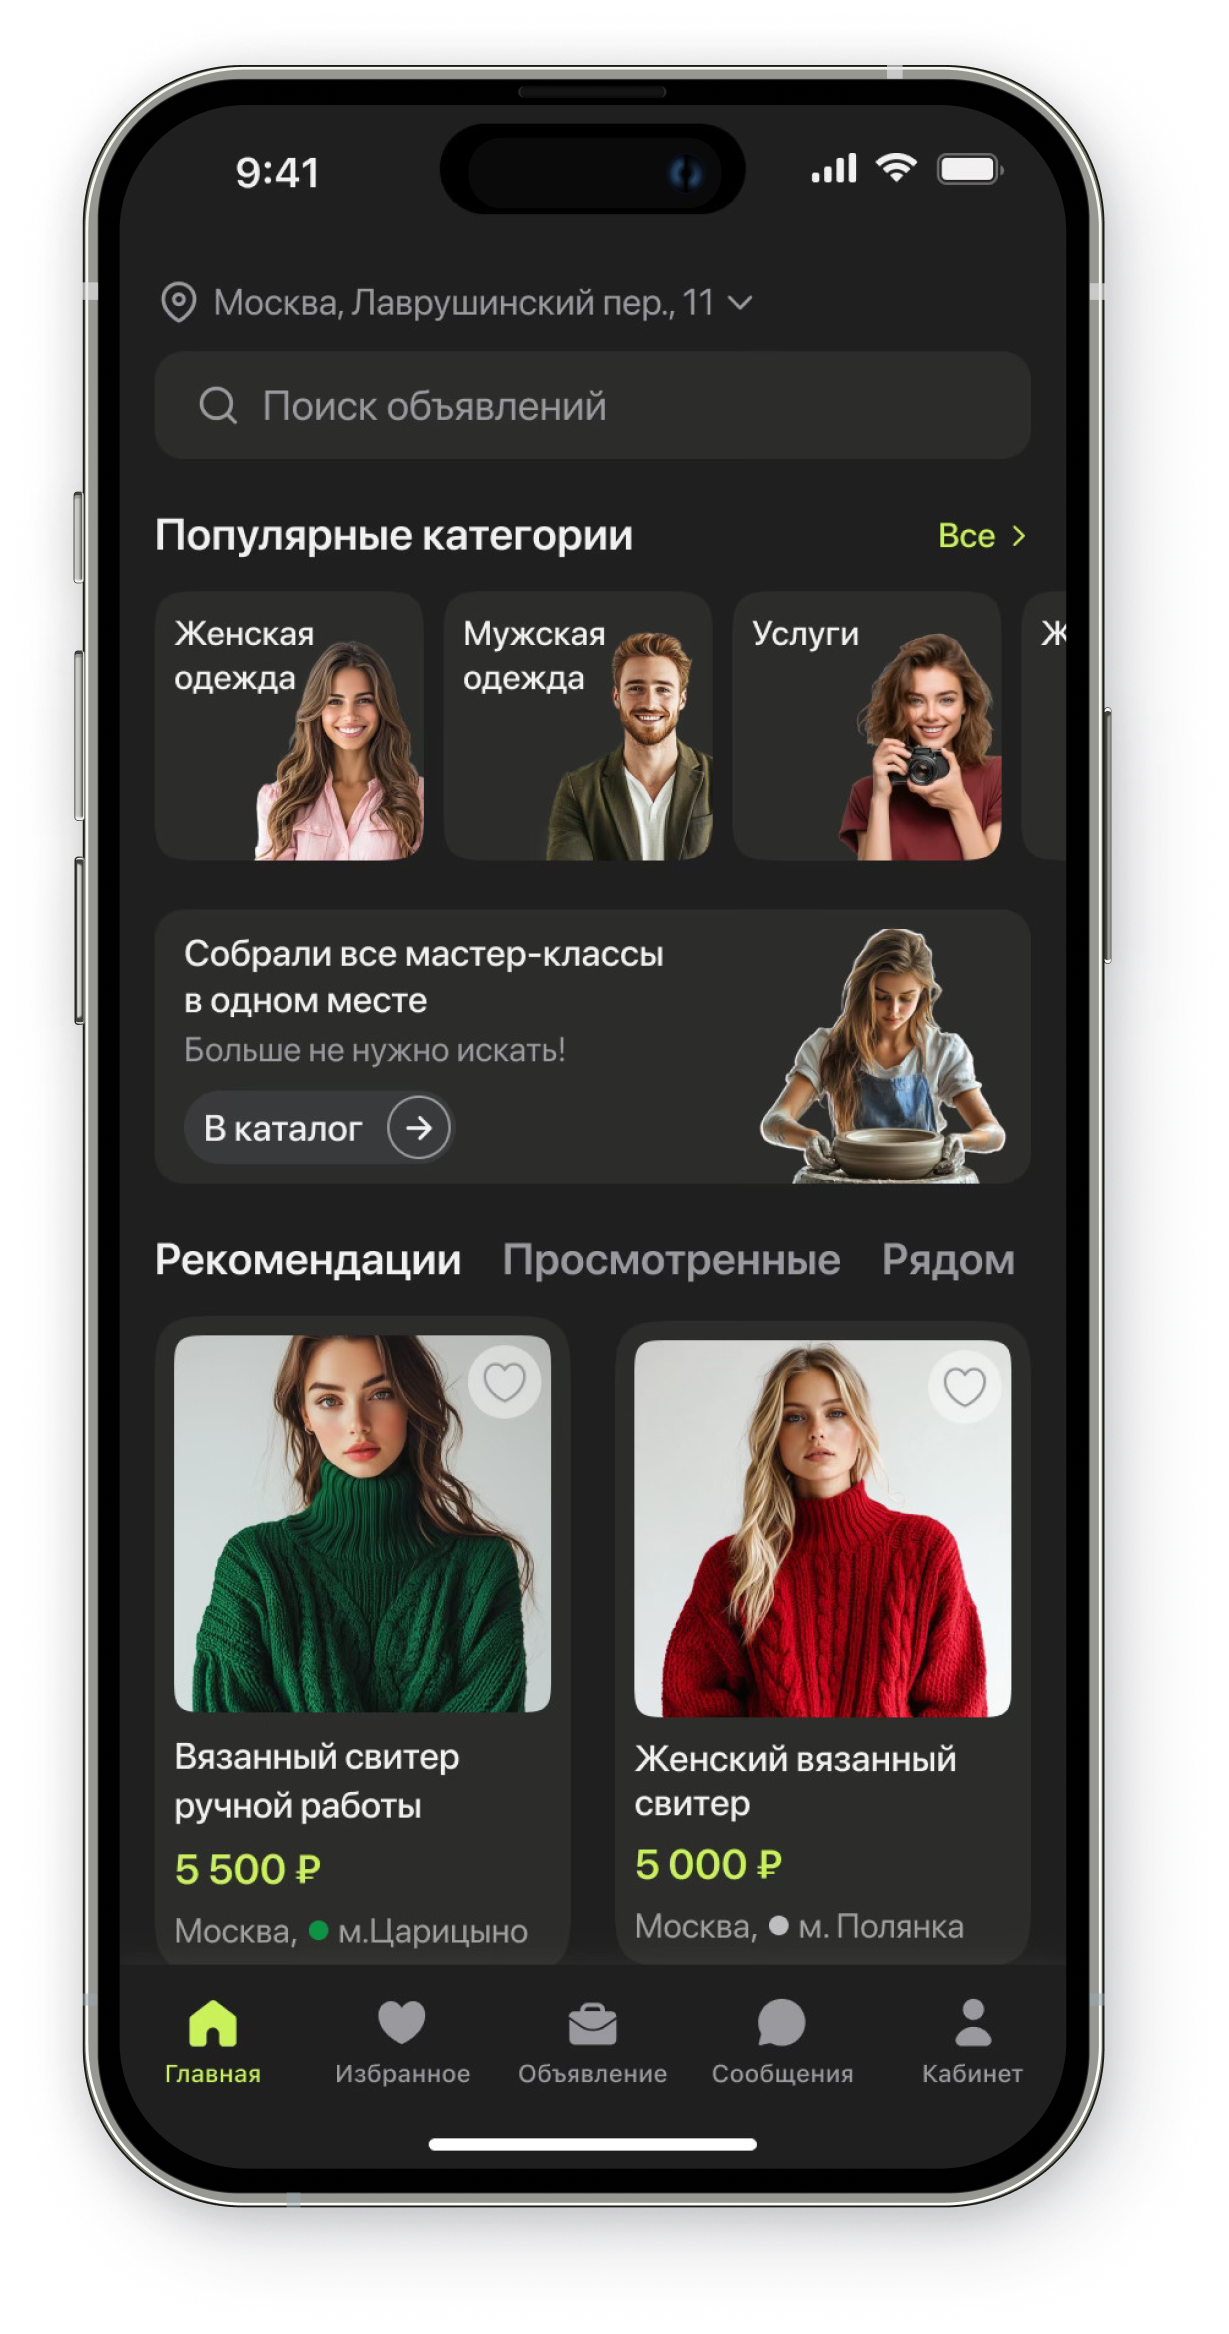
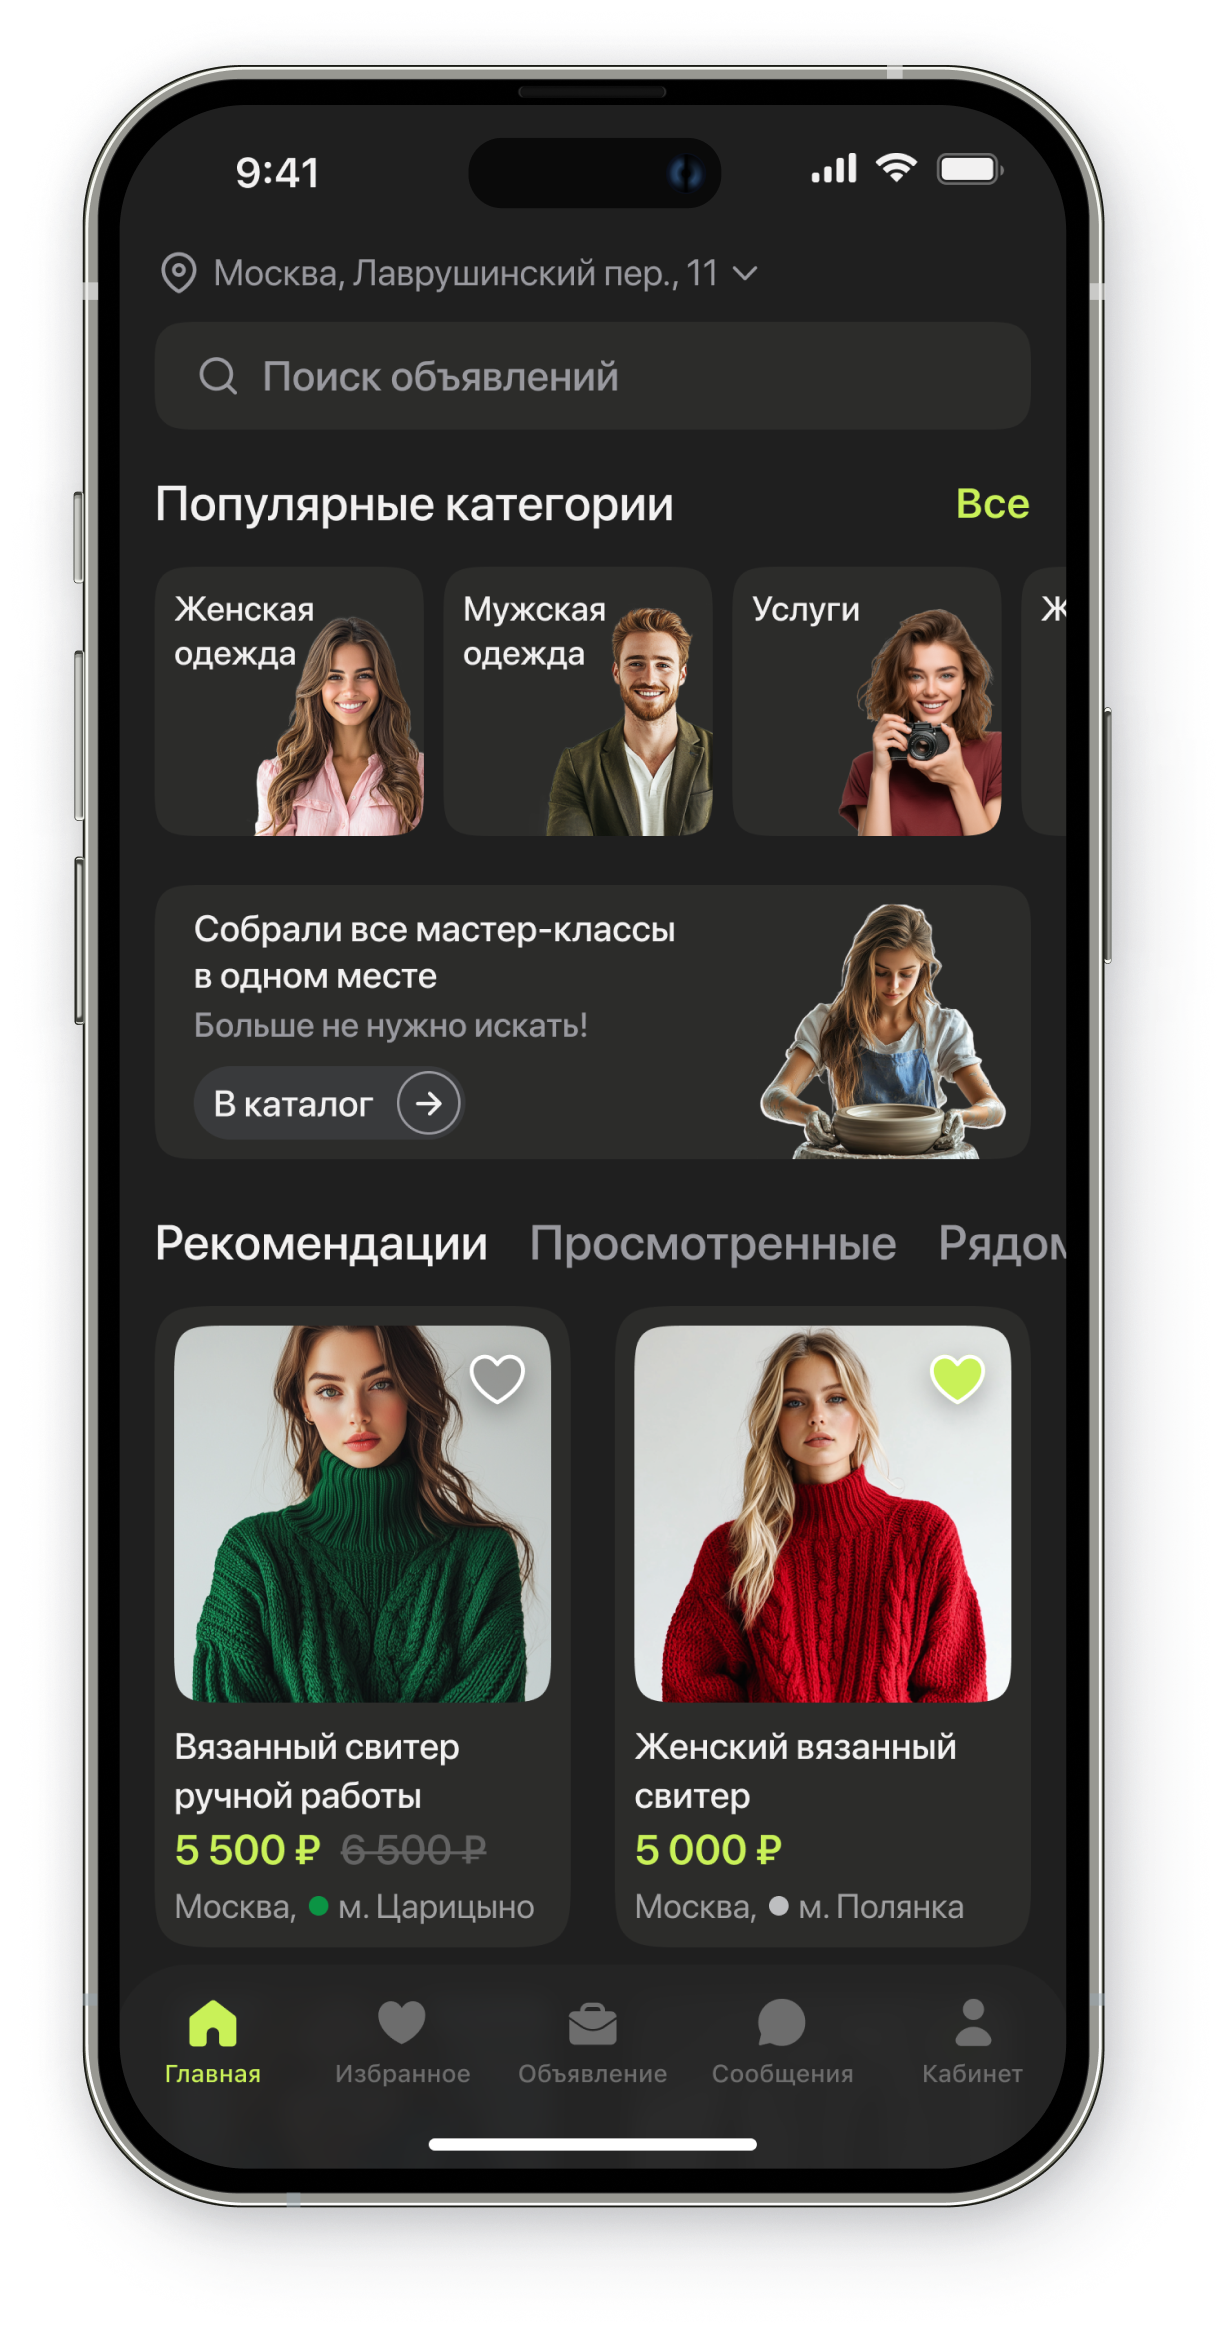
concept

diff --git a/public/index.html b/public/index.html
@@ -117,11 +117,11 @@
         <section class="case-grid" id="concepts" aria-label="Галерея концептов">
           <figure class="case-card case-card--short"><img src="assets/concept-01-reading-app.png" alt="Reader" /><figcaption class="case-chip">Reader</figcaption></figure>
           <figure class="case-card case-card--short"><img src="assets/concept-02-messaging-app.png" alt="Messenger" /><figcaption class="case-chip">Messenger</figcaption></figure>
-          <figure class="case-card case-card--tall"><img src="assets/concept-03-messaging-app.png" alt="Messenger" /><figcaption class="case-chip">Messenger</figcaption></figure>
+          <figure class="case-card case-card--tall"><img src="assets/concept-06-task-manager-app.png" alt="Task Manager" /><figcaption class="case-chip">Task Manager</figcaption></figure>
           <figure class="case-card case-card--tall"><img src="assets/concept-04-streaming-app.png" alt="Online Cinema" /><figcaption class="case-chip">Online Cinema</figcaption></figure>
           <figure class="case-card case-card--tall"><img src="assets/concept-05-android-news-app.png" alt="Android News Portal" /><figcaption class="case-chip">Android News Portal</figcaption></figure>
-          <figure class="case-card case-card--tall"><img src="assets/concept-06-task-manager-app.png" alt="Task Manager" /><figcaption class="case-chip">Task Manager</figcaption></figure>
           <figure class="case-card case-card--tall"><img src="assets/concept-07-task-manager-app.png" alt="Task Manager" /><figcaption class="case-chip">Task Manager</figcaption></figure>
+          <figure class="case-card case-card--tall"><img src="assets/concept-03-messaging-app.png" alt="Messenger" /><figcaption class="case-chip">Messenger</figcaption></figure>
           <figure class="case-card case-card--tall"><img src="assets/concept-08-fintech-app.png" alt="Finance Manager" /><figcaption class="case-chip">Finance Manager</figcaption></figure>
         </section>
       </section>